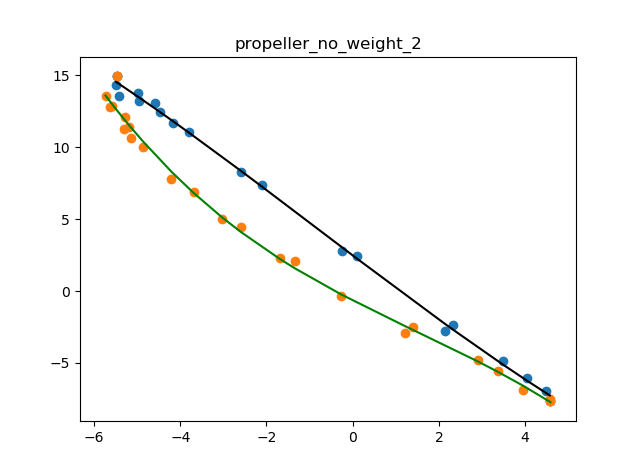
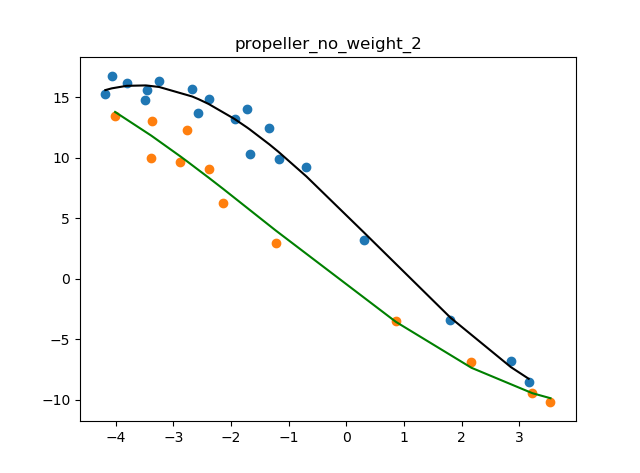
improved function to select points

diff --git a/new_projections.py b/new_projections.py
@@ -10,41 +10,50 @@ from plot_projections import plot_projection_up_down, D2_plot #plot_interpolatio
 
 
 
-def points_of_plane(propeller_coords, plane, threshold):
+def points_of_plane(propeller_coords, plane):
     ''' Get the points to consider for projection on ONE plane
         INPUT: Dataframe points of blade, 
                 np.array plane equation, 
                 scalar delta
         OUTPUT: Dataframe points to consider
     '''
-    max_aerofoil_width = aerofoil_width(propeller_coords)
-
-    index_segment = []
-
-
-    index_segment_up = []
+    threshold = 25
     delta = 0.1
-    old_plane = plane[:]
-    new_plane = plane[:] + [0,0,0,delta]
+
+	max_aerofoil_width = aerofoil_width(propeller_coords)
+
+    old_plane_above = plane[:]
+    old_plane_below = plane[:]
+    above_plane = plane[:] + [0,0,0,delta]
+    below_plane = plane[:] - [0,0,0,delta]
+
     points_taken = 0
+    index_segment = []
 
     while(points_taken == 0):
         for index, point in propeller_coords.iterrows(): 
             point_mult = np.append(point, 1)   
 
-            if(point_mult @ old_plane < 0 and point_mult @ new_plane >= 0):
+            if(point_mult @ old_plane_above < 0 and point_mult @ above_plane >= 0):
                 points_taken += 1
                 index_segment.append(index) 
-                index_segment_up.append(index)
+                break
+            elif(point_mult @ old_plane_below > 0 and point_mult @ below_plane <= 0):
+                points_taken += 1
+                index_segment.append(index) 
                 break
 
-        #print("delta not ok")
         delta += 0.1                                 #set a plausible delta
-        old_plane = new_plane[:]
-        new_plane = new_plane[:] + [0,0,0,delta]
 
-    #print("delta up is {}", delta)             
-    taken_up = propeller_coords.loc[index_segment_up].copy()
+        old_plane_above = above_plane[:]
+        above_plane = above_plane[:] + [0,0,0,delta]
+
+        old_plane_below = below_plane[:]
+        below_plane = below_plane[:] - [0,0,0,delta]
+           
+    taken = propeller_coords.loc[index_segment].copy()
+
+
 
     while(points_taken < threshold):   # while less than threshold nb of pts are added at each iteration, continue to add points
         #nb_pts_at_a_time = 0
@@ -52,75 +61,27 @@ def points_of_plane(propeller_coords, plane, threshold):
         for index, point in propeller_coords.iterrows(): 
             point_mult = np.append(point, 1)                                #[x, y, z] to [x, y, z, 1]: to multiply with plane [a, b, c, d]
 
-            if(point_mult @ old_plane < 0 and point_mult @ new_plane >= 0): #if point between in interval delta between planes
+            if( (point_mult @ old_plane_above < 0 and point_mult @ above_plane >= 0) or (point_mult @ old_plane_below > 0 and point_mult @ below_plane <= 0) ): #if point between in interval delta between planes
                 to_add = True
 
-                for _, already_taken in taken_up.iterrows(): 
+                for _, already_taken in taken.iterrows(): 
                     distance = math.sqrt( (point[0] - already_taken[0])**2 + (point[1] - already_taken[1])**2 )
 
                     if(  distance < (max_aerofoil_width/50)  ): #if not far enough of already taken
                         to_add = False
+
                 if(to_add):
                     #print("upper taken {}".format(points_taken))
                     points_taken += 1
                     index_segment.append(index)
-                    index_segment_up.append(index) #DEBUG
-                    taken_up = propeller_coords.loc[index_segment_up].copy()
+                    #index_segment_up.append(index) #DEBUG
+                    taken = propeller_coords.loc[index_segment].copy()
 
-        old_plane = new_plane[:]
-        new_plane = new_plane[:] + [0,0,0,delta]                            #consider next interval at next iteration
+        old_plane_above = above_plane[:]
+        above_plane = above_plane[:] + [0,0,0,delta]                            #consider next interval at next iteration
 
-
-    index_segment_dn = []
-    delta = 0.1
-    ## Lower side
-    old_plane = plane[:]
-    new_plane = plane[:] - [0,0,0,delta]
-    points_taken = 0
-
-    while(points_taken == 0):
-        for index, point in propeller_coords.iterrows(): 
-            point_mult = np.append(point, 1)   
-
-            if(point_mult @ old_plane > 0 and point_mult @ new_plane <= 0):
-                points_taken += 1
-                index_segment.append(index) 
-                index_segment_dn.append(index)
-                break
-
-        delta += 0.1                                 #set a plausible delta
-        old_plane = new_plane[:]
-        new_plane = new_plane[:] - [0,0,0,delta]
-
-    #print("delta down is {}", delta)             
-    taken_down = propeller_coords.loc[index_segment].copy()
-
-    while(points_taken < threshold):   # while less than threshold nb of pts are added at each iteration, continue to add points
-        #nb_pts_at_a_time = 0
-
-        for index, point in propeller_coords.iterrows(): 
-            point_mult = np.append(point, 1)                                #[x, y, z] to [x, y, z, 1]: to multiply with plane [a, b, c, d]
-
-            if(point_mult @ old_plane > 0 and point_mult @ new_plane <= 0): #if point between in interval delta between planes
-                to_add = True
-                
-                for _, already_taken in taken_down.iterrows(): 
-                    distance = math.sqrt( (point[0] - already_taken[0])**2 + (point[1] - already_taken[1])**2 )
-
-                    if( distance < (max_aerofoil_width/50) ): #if not far enough of already taken
-                        to_add = False
-
-                if(to_add):    
-                    #print("lower taken{}".format(points_taken))
-                    points_taken += 1
-                    index_segment.append(index)
-                    index_segment_dn.append(index) #DEBUG
-                    taken_down = propeller_coords.loc[index_segment_dn].copy()
-
-
-        old_plane = new_plane[:]
-        new_plane = new_plane[:] - [0,0,0,delta]                            #consider next interval at next iteration
-
+        old_plane_below = below_plane[:]
+        below_plane = below_plane[:] - [0,0,0,delta]                            #consider next interval at next iteration    
 
 
     # Takes both sides points
@@ -130,7 +91,7 @@ def points_of_plane(propeller_coords, plane, threshold):
 
 
 
-def get_points(propeller_coords, planes, nb_point_each_side):
+def get_points(propeller_coords, planes):
     '''Get the points around EACH plane for projection
     INPUT: Dataframe points of blade, 
                 np.array plane equation, 
@@ -143,7 +104,7 @@ def get_points(propeller_coords, planes, nb_point_each_side):
         if(i==0 or i == (len(planes)-1)):   #do not take into account first plane (hub) and last plane (extremity)
             pass
         else:
-            points.append( points_of_plane(propeller_coords, plane, nb_point_each_side) )
+            points.append( points_of_plane(propeller_coords, plane) )
             print("Points of plane {}".format(i))
 
     return points

diff --git a/test2.py b/test2.py
@@ -18,7 +18,7 @@ from new_projections import *
 #delta = 0.6   #aerostar
 
 propeller = pd.read_csv('propeller_data.csv')
-nb_point_each_side = 20
+nb_point = 30
 
 ''' Choose number of aerofoil wanted
 '''
@@ -60,7 +60,7 @@ planes = get_planes(upper_blade, dmiddle, dhighest, vect_length, nb_seg)   #get 
 print("Planes computed")
 #print(len(planes))
 
-all_plane_points = get_points(upper_blade, planes, nb_point_each_side)                  #get points used for each projection
+all_plane_points = get_points(upper_blade, planes, nb_point)                  #get points used for each projection
 print("Points selected")
 #print(len(all_plane_points))
 #plot_projection_up_down(all_plane_points[0], all_plane_points[1])
@@ -71,16 +71,9 @@ right_param, left_param, right_pts, left_pts = get_all_projections(planes, all_p
 #print(type(right_pts))
 #print(right_pts)
 
-plot_interpolation_both_sides(right_param[0], right_pts[0], left_param[0], left_pts[0], "propeller_no_weight_0")
-plot_interpolation_both_sides(right_param[1], right_pts[1], left_param[1], left_pts[1], "propeller_no_weight_1")
-plot_interpolation_both_sides(right_param[2], right_pts[2], left_param[2], left_pts[2], "propeller_no_weight_2")
-plot_interpolation_both_sides(right_param[3], right_pts[3], left_param[3], left_pts[3], "propeller_no_weight_3")
-plot_interpolation_both_sides(right_param[4], right_pts[4], left_param[4], left_pts[4], "propeller_no_weight_4")
-plot_interpolation_both_sides(right_param[5], right_pts[5], left_param[5], left_pts[5], "propeller_no_weight_5")
-plot_interpolation_both_sides(right_param[6], right_pts[6], left_param[6], left_pts[6], "propeller_no_weight_6")
-plot_interpolation_both_sides(right_param[7], right_pts[7], left_param[7], left_pts[7], "propeller_no_weight_7")
-plot_interpolation_both_sides(right_param[8], right_pts[8], left_param[8], left_pts[8], "propeller_no_weight_8")
-#plot_interpolation_both_sides(right_param[9], right_pts[9], left_param[9], left_pts[9], "propeller_no_weight_9")
+for i in range(5):
+plot_interpolation_both_sides(right_param[i], right_pts[i], left_param[i], left_pts[i], "propeller_no_weight_" + str(i))
+
 
 print("End projections")
 
